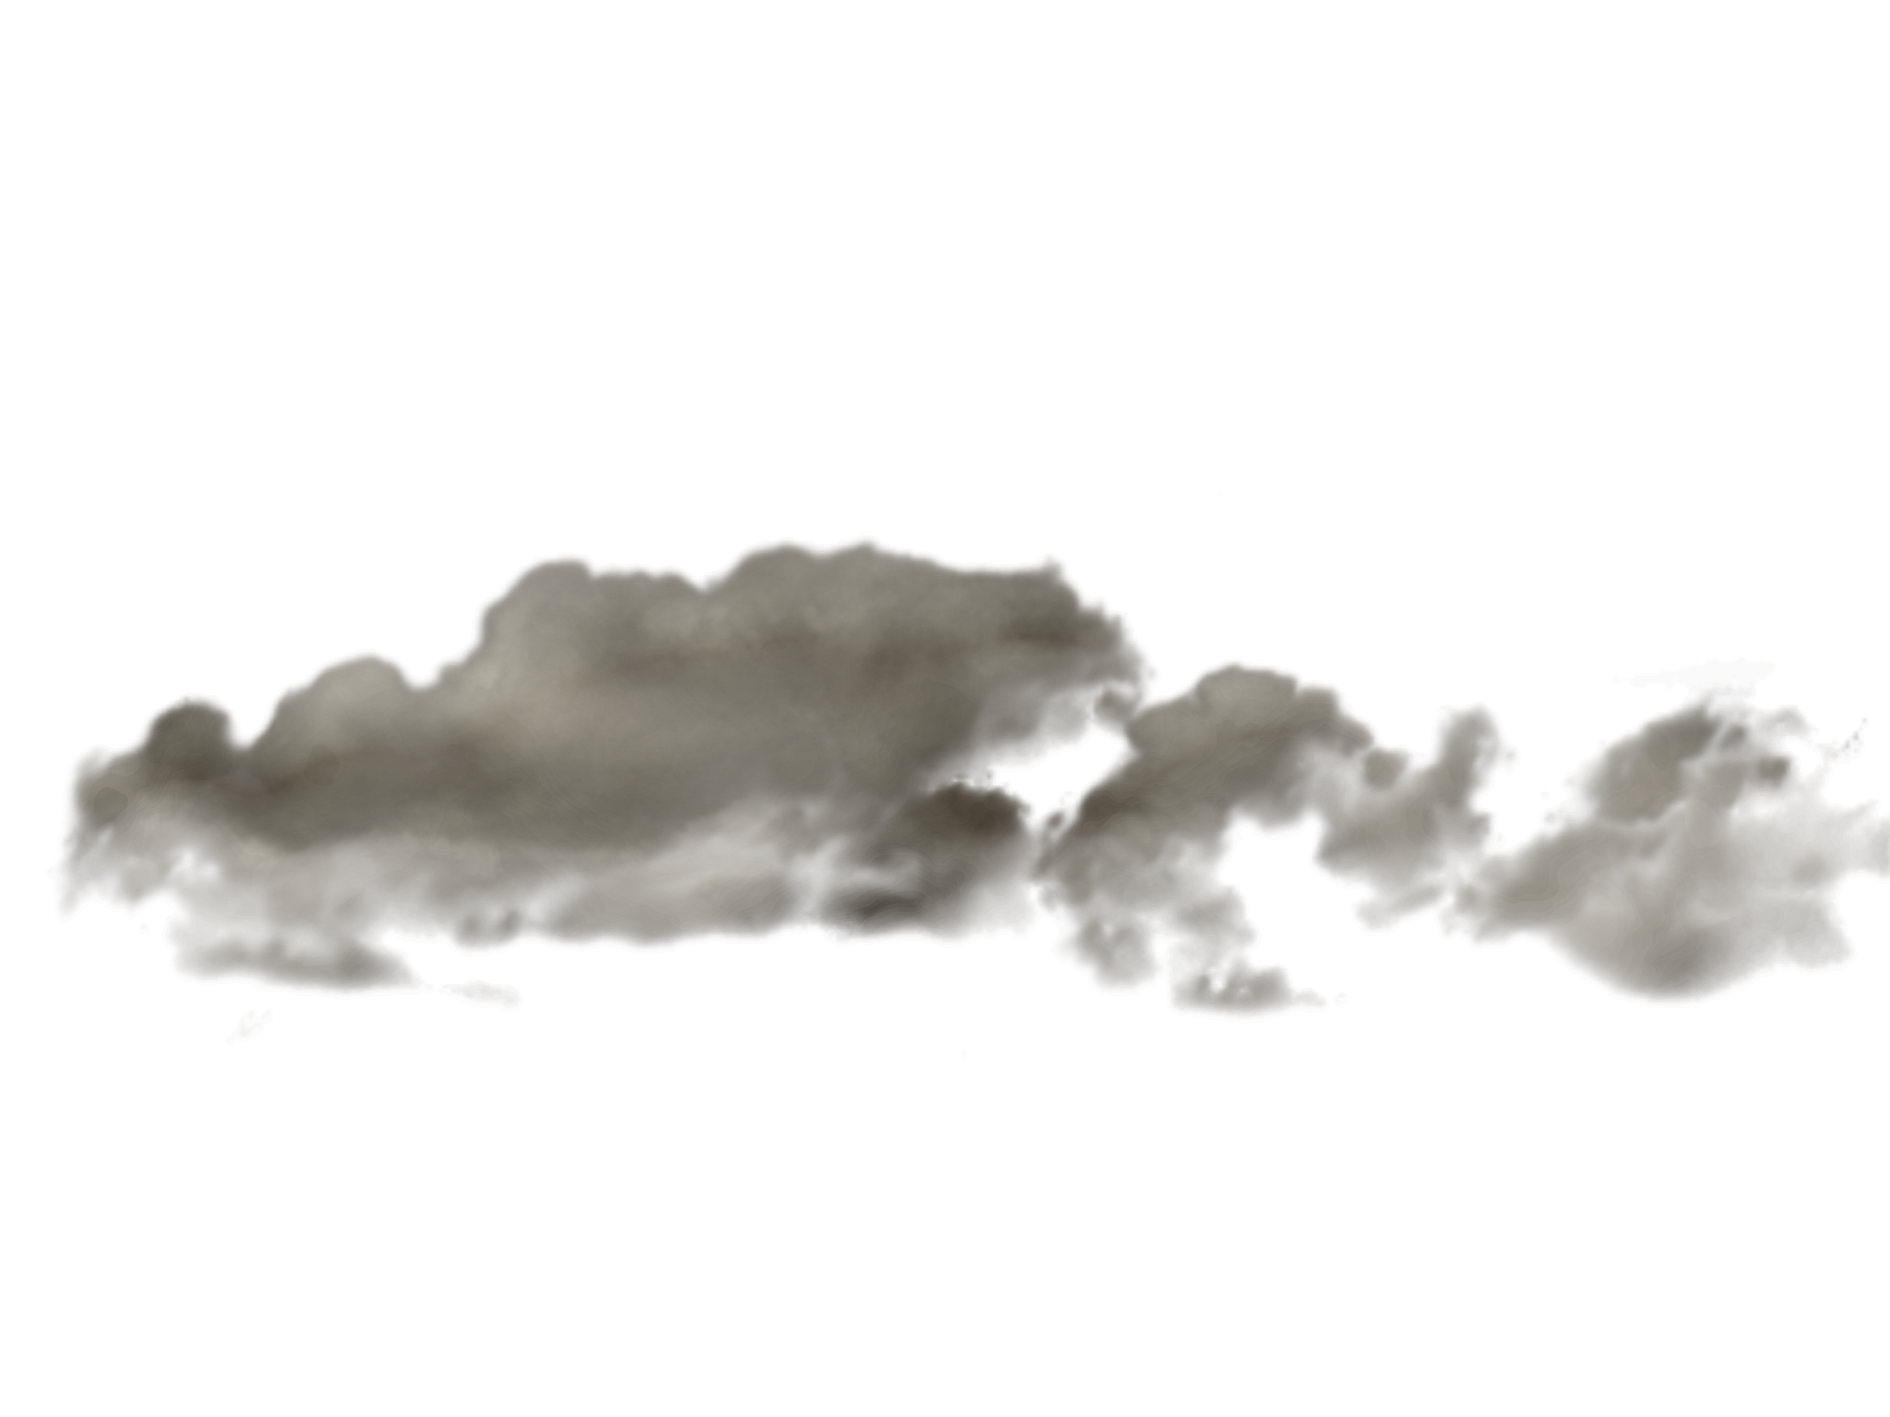
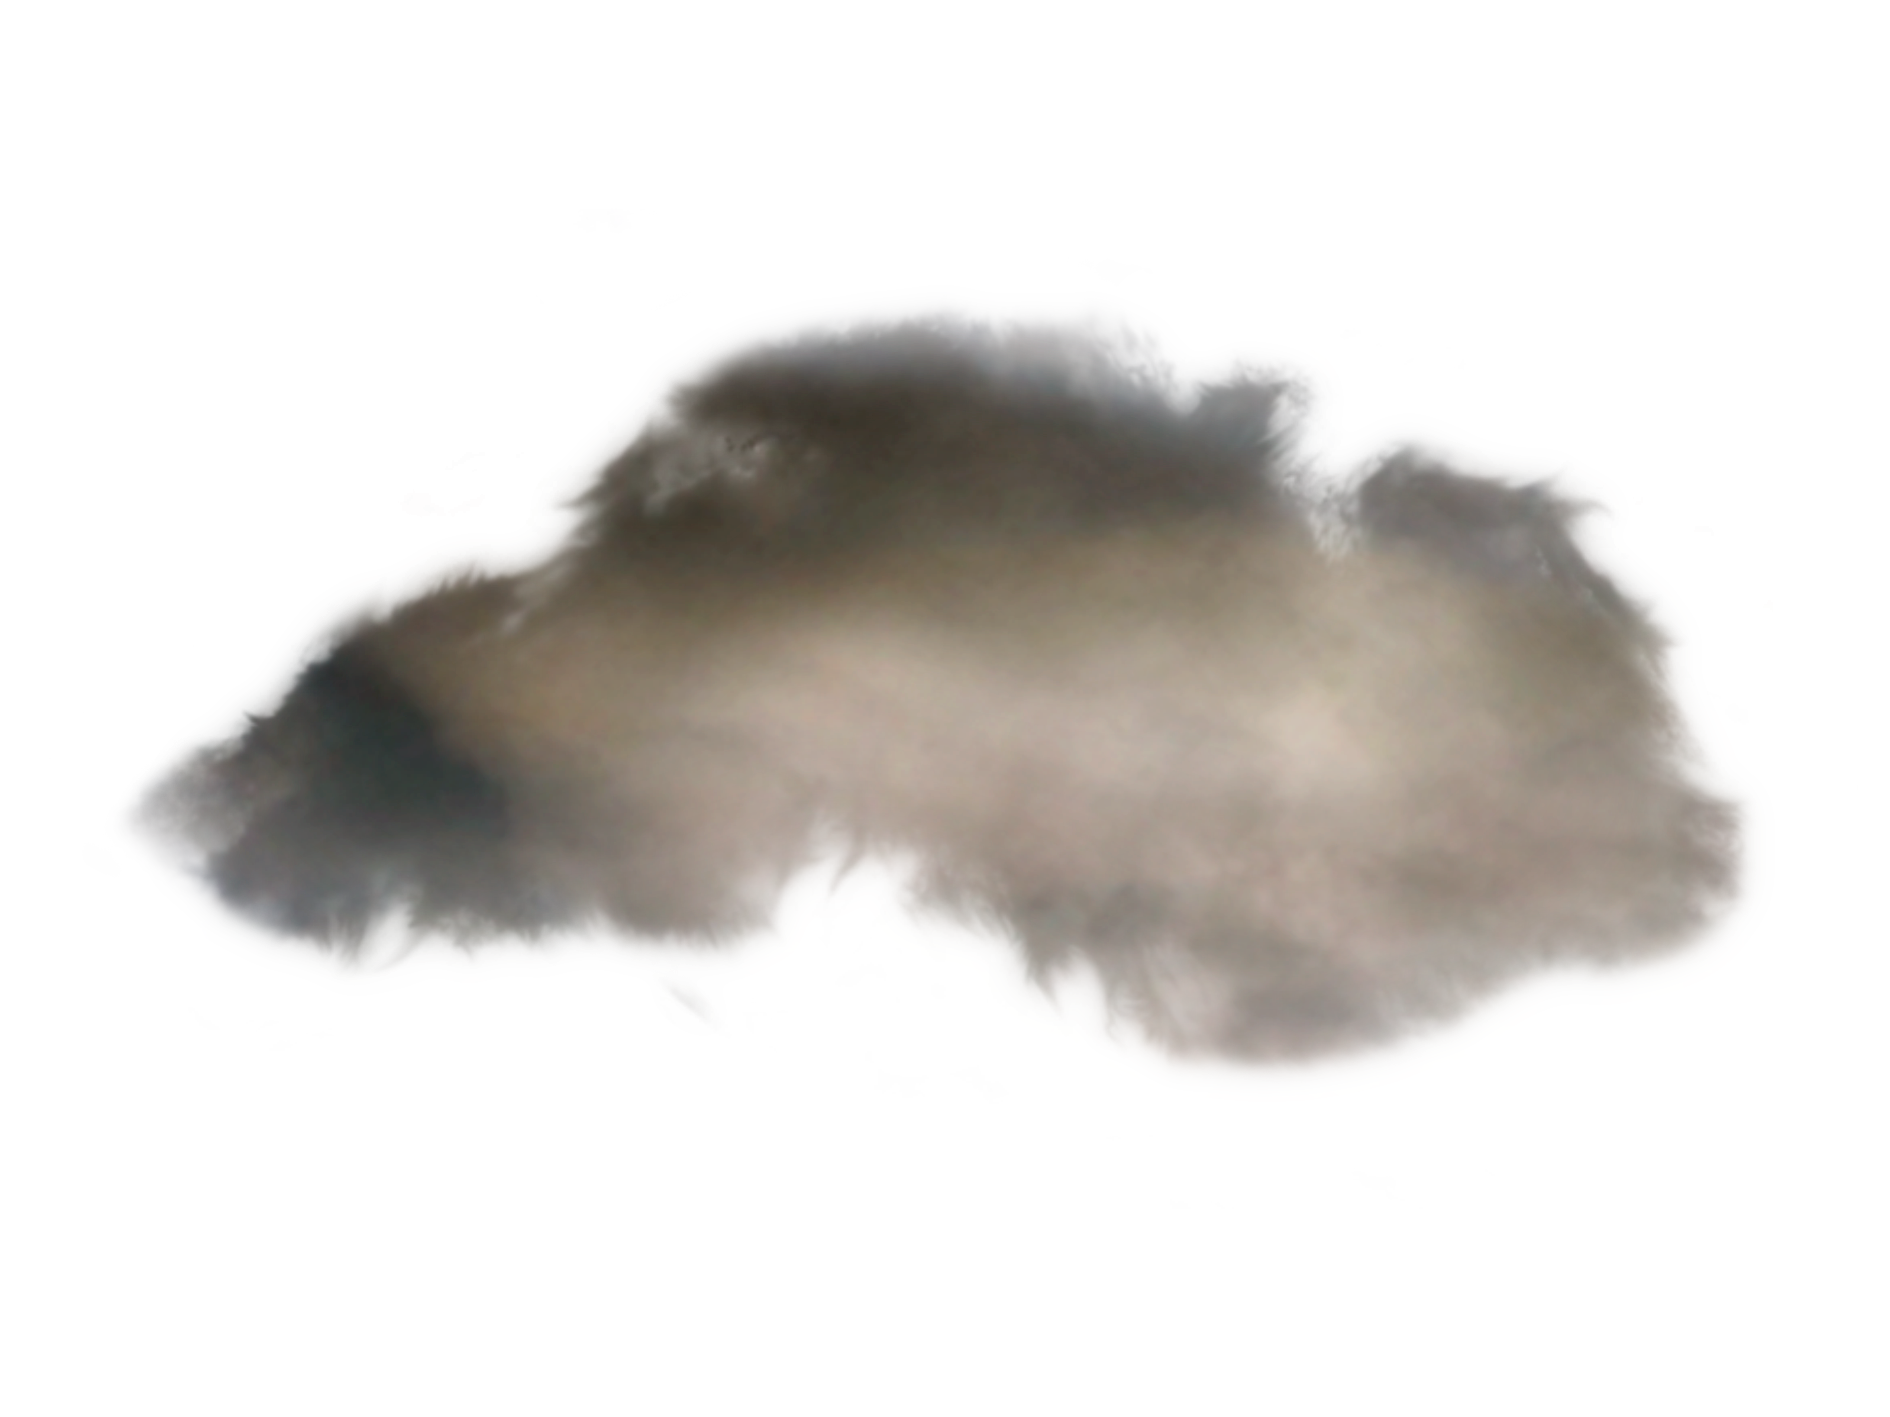
feat(storm): agregar cloud_15.png, actualizar texturas de nubes y elevar MAX_CLOUD_TEXTURES a 16

Changed region(s): [[0.0312, 0.2174, 1.0, 0.7763]]

diff --git a/wallpaper-storm/src/main/java/com/wolf/wallpaper/storm/SceneManager.kt b/wallpaper-storm/src/main/java/com/wolf/wallpaper/storm/SceneManager.kt
@@ -47,7 +47,7 @@ class SceneManager(
         private const val MAX_CLOUD_COUNT = 10
 
         // Maximum cloud textures loaded in pool to optimize startup time and VRAM usage
-        const val MAX_CLOUD_TEXTURES = 14
+        const val MAX_CLOUD_TEXTURES = 16
 
         // Maximum lightning textures loaded in pool to optimize startup time and VRAM usage
         const val MAX_LIGHTNING_TEXTURES = 12
